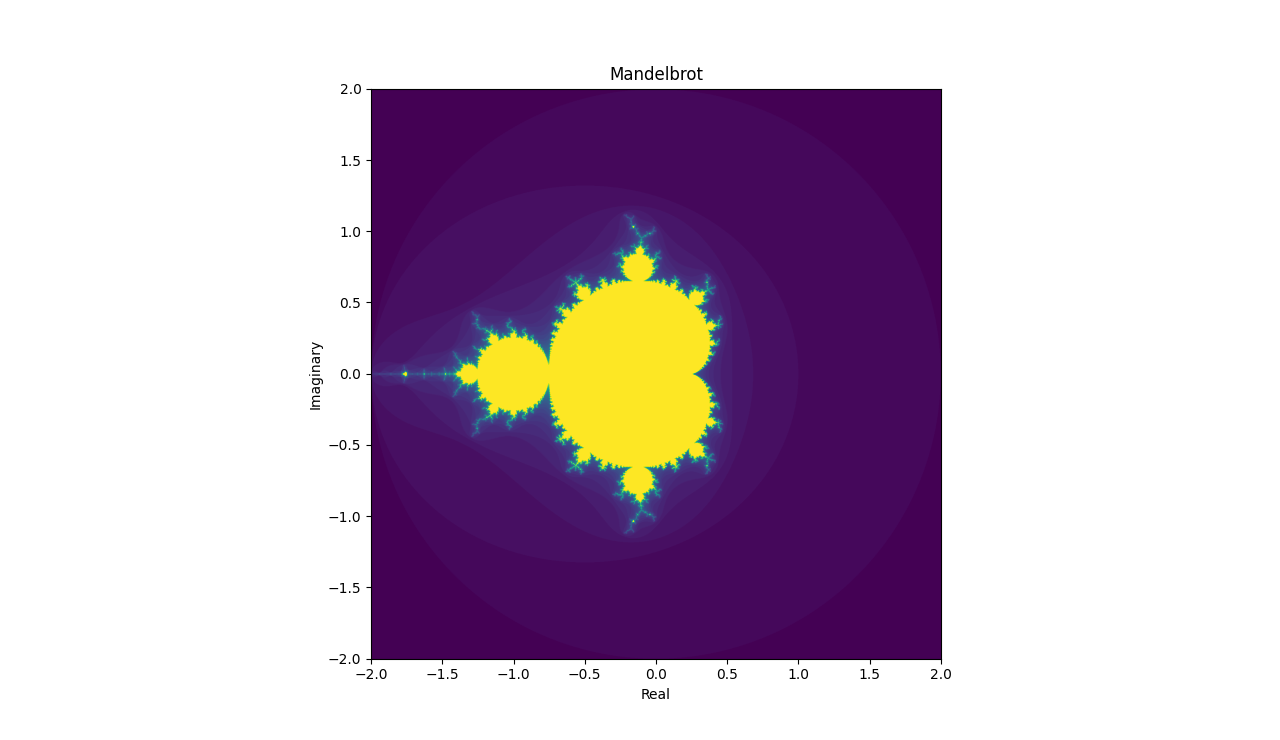
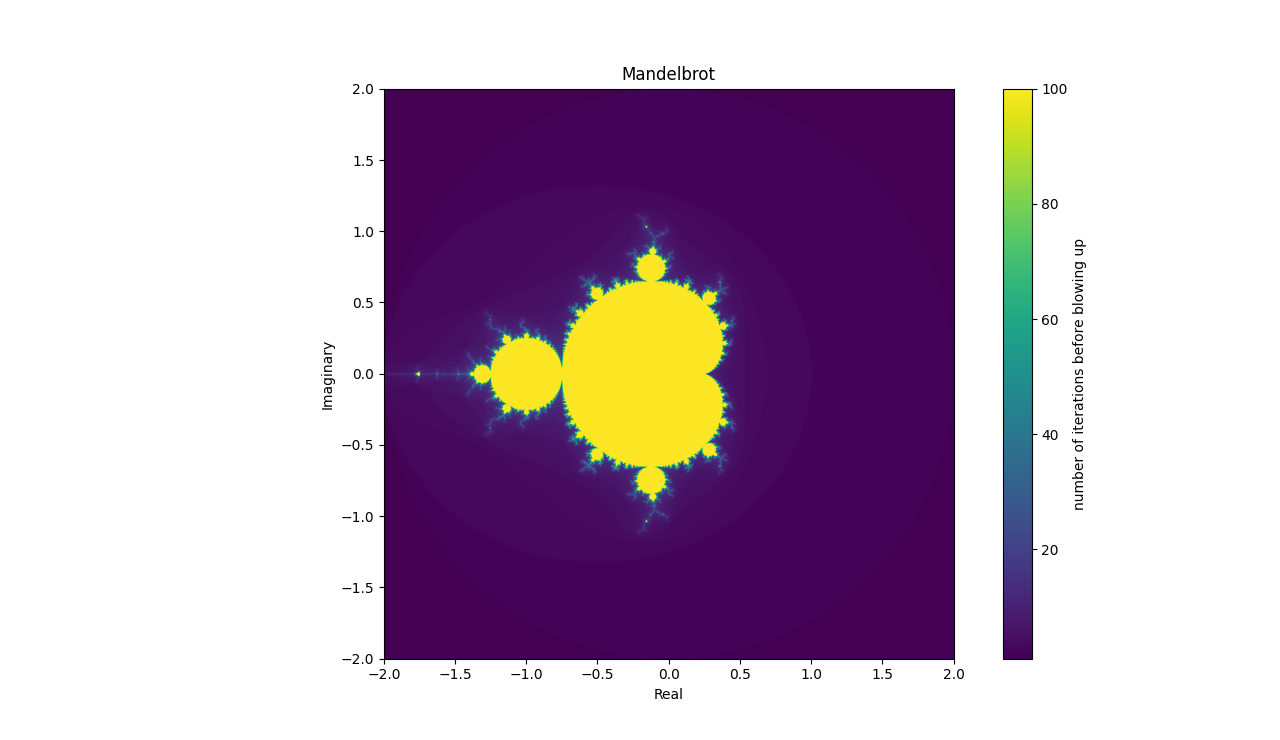
julia sets

diff --git a/math/fractals/julia.py b/math/fractals/julia.py
@@ -1,0 +1,29 @@
+#generate a simple black and white mandelbrot set
+import numpy as np
+import matplotlib.pyplot as plt
+iterations=100
+resolution=2000
+
+image = np.full((resolution, resolution), iterations)
+xcords=np.linspace(-2,2,resolution)
+ycords=np.linspace(-2,2,resolution)
+x,y=np.meshgrid(xcords,ycords)
+grid=x+1j*y
+for i in range(resolution):
+    for j in range(resolution):
+        z=grid[i][j]                    #iterate over the entire complex plane for all values of z
+        for k in range(iterations):
+            if(np.abs(z)>2):
+                image[i][j]=k
+                break
+            z = z**2 - 0.75 + 1j*0.1           #edit the function here
+plt.figure(figsize=(10,10))
+
+plt.imshow(image, extent=(xcords.min(),xcords.max(),ycords.min(),ycords.max()),cmap='inferno')
+plt.colorbar(label='Number of iterations before the point blows up')
+        
+    
+plt.xlabel('Real')
+plt.ylabel('Imaginary')
+plt.title('Julia')
+plt.show()

diff --git a/math/fractals/mandelbrot.py b/math/fractals/mandelbrot.py
@@ -16,11 +16,11 @@ for i in range(resolution):
             if(np.abs(z)>2):
                 image[i][j]=k
                 break
-            z = (np.abs(z.real) + 1j * np.abs(z.imag))**2 + grid[i][j]              #edit the function here
+            z = z**2 + grid[i][j]              #edit the function here
 plt.figure(figsize=(10,10))
 
 plt.imshow(image, extent=(xcords.min(),xcords.max(),ycords.min(),ycords.max()))
-        
+plt.colorbar(label="number of iterations before blowing up")       
         
 plt.xlabel('Real')
 plt.ylabel('Imaginary')
